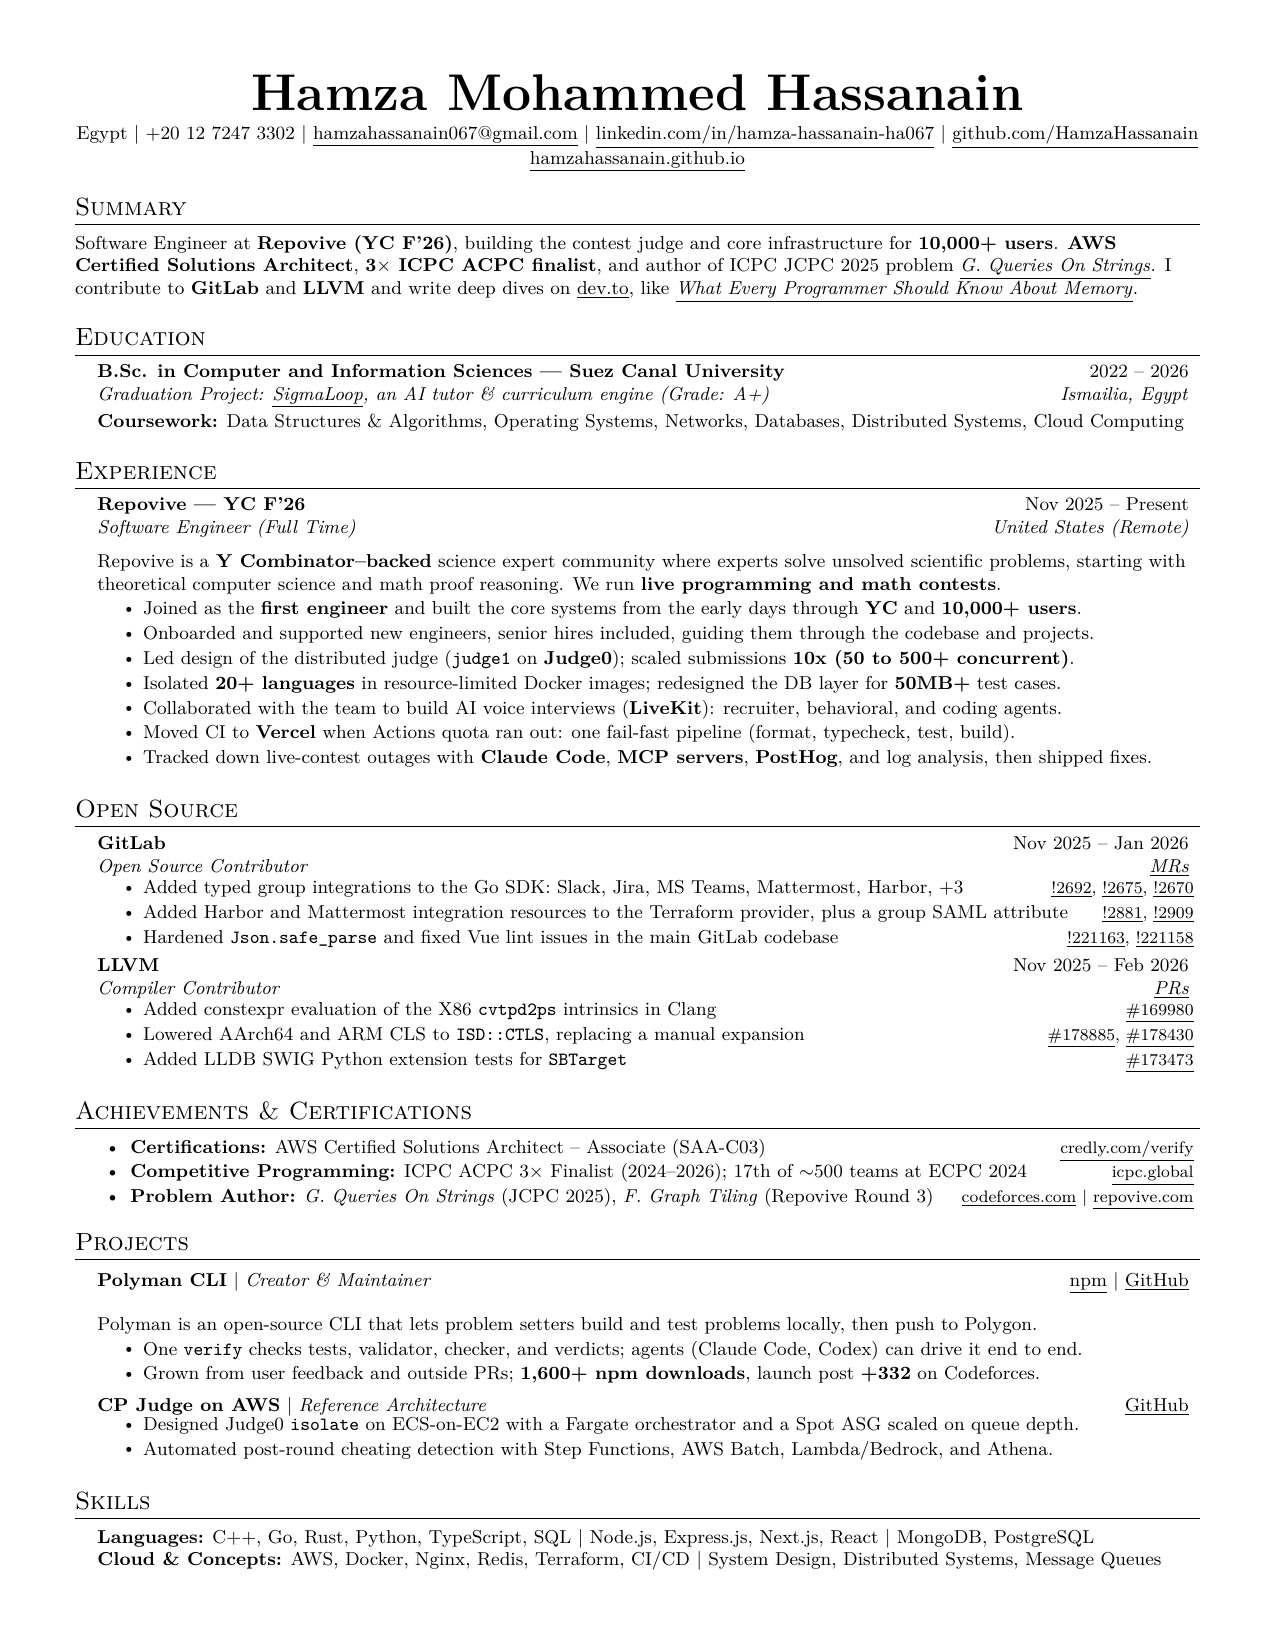
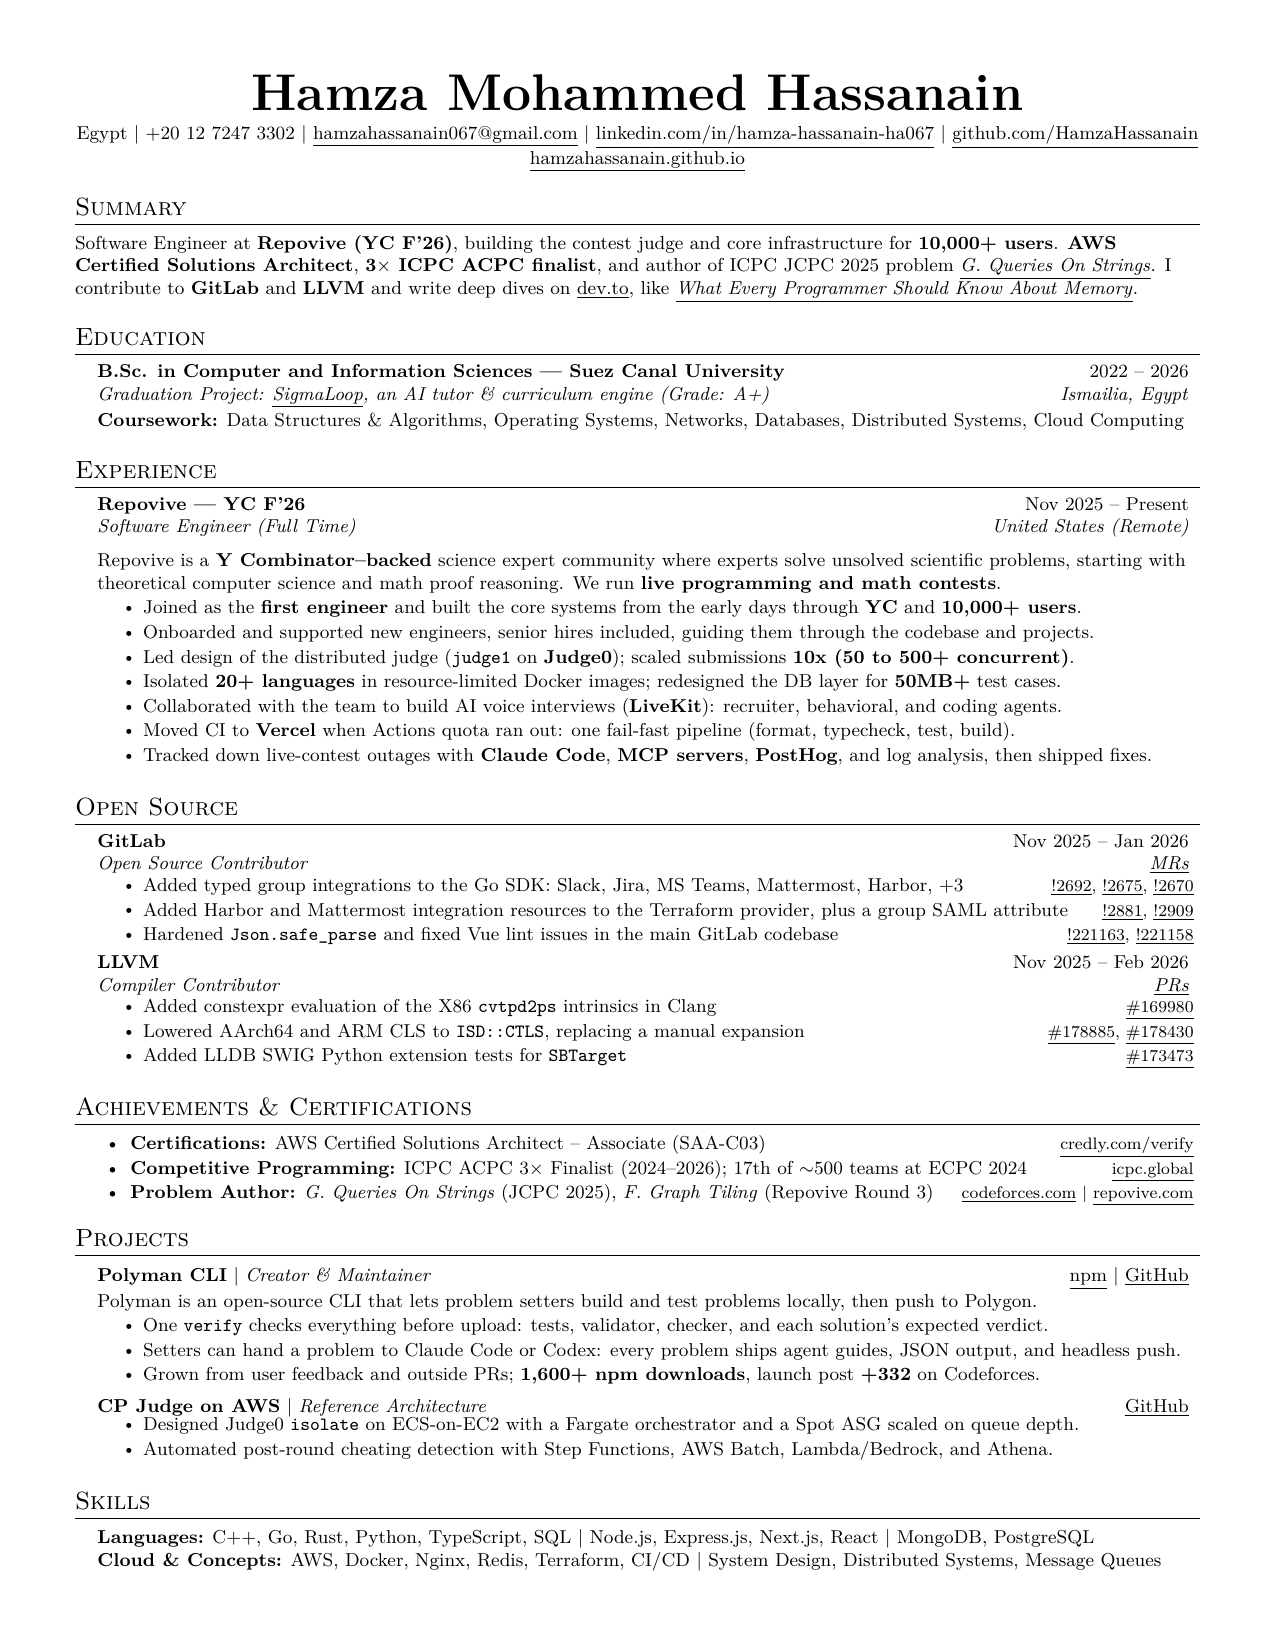
Polyman: tighten heading gap, split verify/agent bullets back out

diff --git a/sections/projects.tex b/sections/projects.tex
@@ -2,11 +2,12 @@
 
   \resumeProjectHeading
     {\textbf{Polyman CLI} $|$ \textit{Creator \& Maintainer}}{\ulink{https://npmjs.com/package/polyman-cli}{npm} $|$ \ulink{https://github.com/HamzaHassanain/polyman}{GitHub}}
-    \vspace{3pt}
+    \vspace{-6pt}
     \item {\small Polyman is an open-source CLI that lets problem setters build and test problems locally, then push to Polygon.}
     \vspace{-4pt}
     \resumeItemListStart
-      \resumeItem{One \texttt{verify} checks tests, validator, checker, and verdicts; agents (Claude Code, Codex) can drive it end to end.}
+      \resumeItem{One \texttt{verify} checks everything before upload: tests, validator, checker, and each solution's expected verdict.}
+      \resumeItem{Setters can hand a problem to Claude Code or Codex: every problem ships agent guides, JSON output, and headless push.}
       \resumeItem{Grown from user feedback and outside PRs; \textbf{1,600+ npm downloads}, launch post \textbf{+332} on Codeforces.}
     \resumeItemListEnd
 
